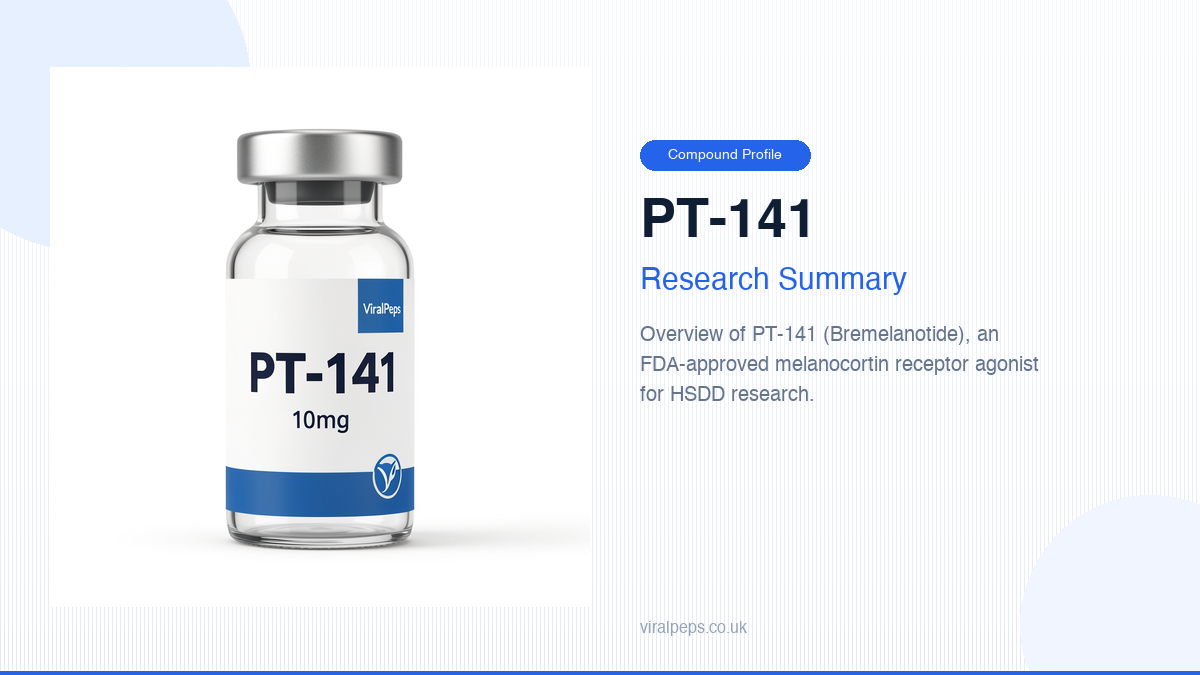
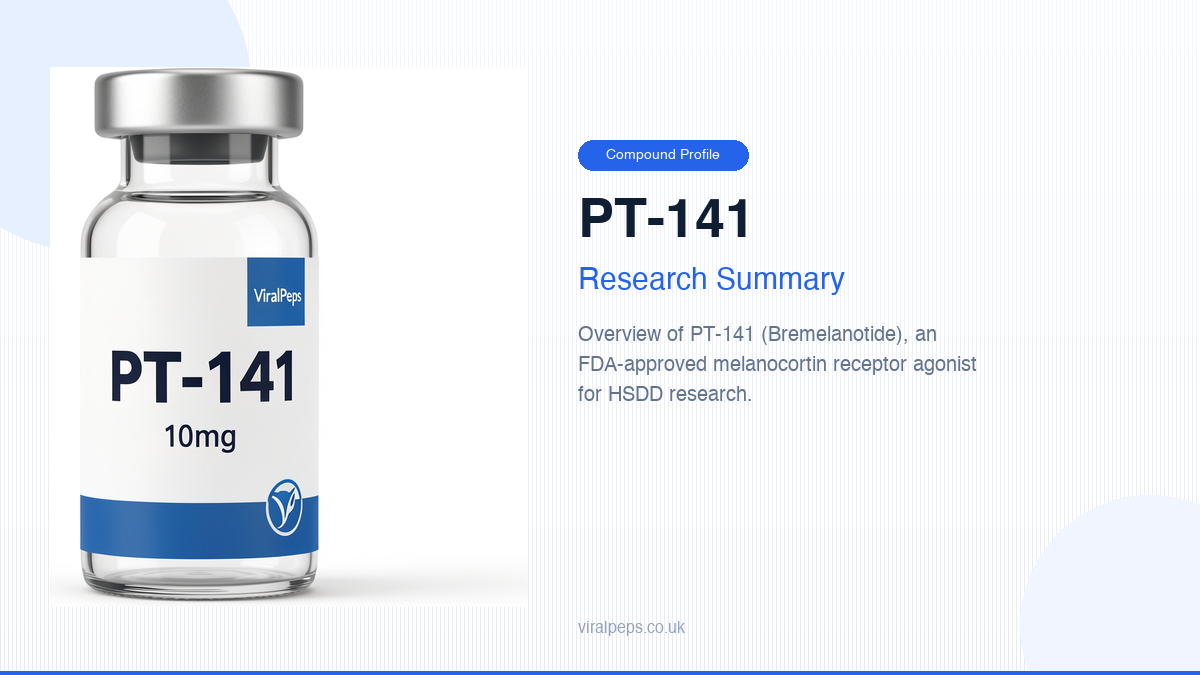
Fix PT-141 card: RGBA transparent vial, gradient matching Sermorelin exactly, same 540px size

diff --git a/scripts/create_guide_image.py b/scripts/create_guide_image.py
@@ -38,21 +38,28 @@ for y in range(card_h):
 draw.ellipse([-80, -80, 250, 250], fill=(230, 240, 255))
 draw.ellipse([card_w - 180, card_h - 180, card_w + 80, card_h + 80], fill=(240, 245, 255))
 
-# Vial — large (80% card height, matching Ipamorelin/TB-500)
-vial = Image.open(VIAL_SRC)
+# Vial — make white pixels transparent so vial floats on gradient
+vial = Image.open(VIAL_SRC).convert("RGBA")
+data = vial.getdata()
+new_data = []
+for item in data:
+    r, g, b, a = item
+    # If nearly white, make transparent
+    if r > 248 and g > 248 and b > 248:
+        new_data.append((r, g, b, 0))
+    else:
+        new_data.append(item)
+vial.putdata(new_data)
+
 vial_ratio = vial.width / vial.height
-target_h = int(card_h * 0.8)  # 540px
+target_h = int(card_h * 0.88)  # 594px — large enough to fill panel
 target_w = int(target_h * vial_ratio)
 if target_w > card_w // 2 - 40:
     target_w = card_w // 2 - 60
     target_h = int(target_w / vial_ratio)
 vial_resized = vial.resize((target_w, target_h), Image.LANCZOS)
 vial_x, vial_y = 50, (card_h - target_h) // 2
-# Use RGBA mask when possible for clean edges
-if vial.mode == "RGBA":
-    card.paste(vial_resized, (vial_x, vial_y), vial_resized)
-else:
-    card.paste(vial_resized, (vial_x, vial_y))
+card.paste(vial_resized, (vial_x, vial_y), vial_resized)
 
 # Fonts
 font_dir = "/System/Library/Fonts"